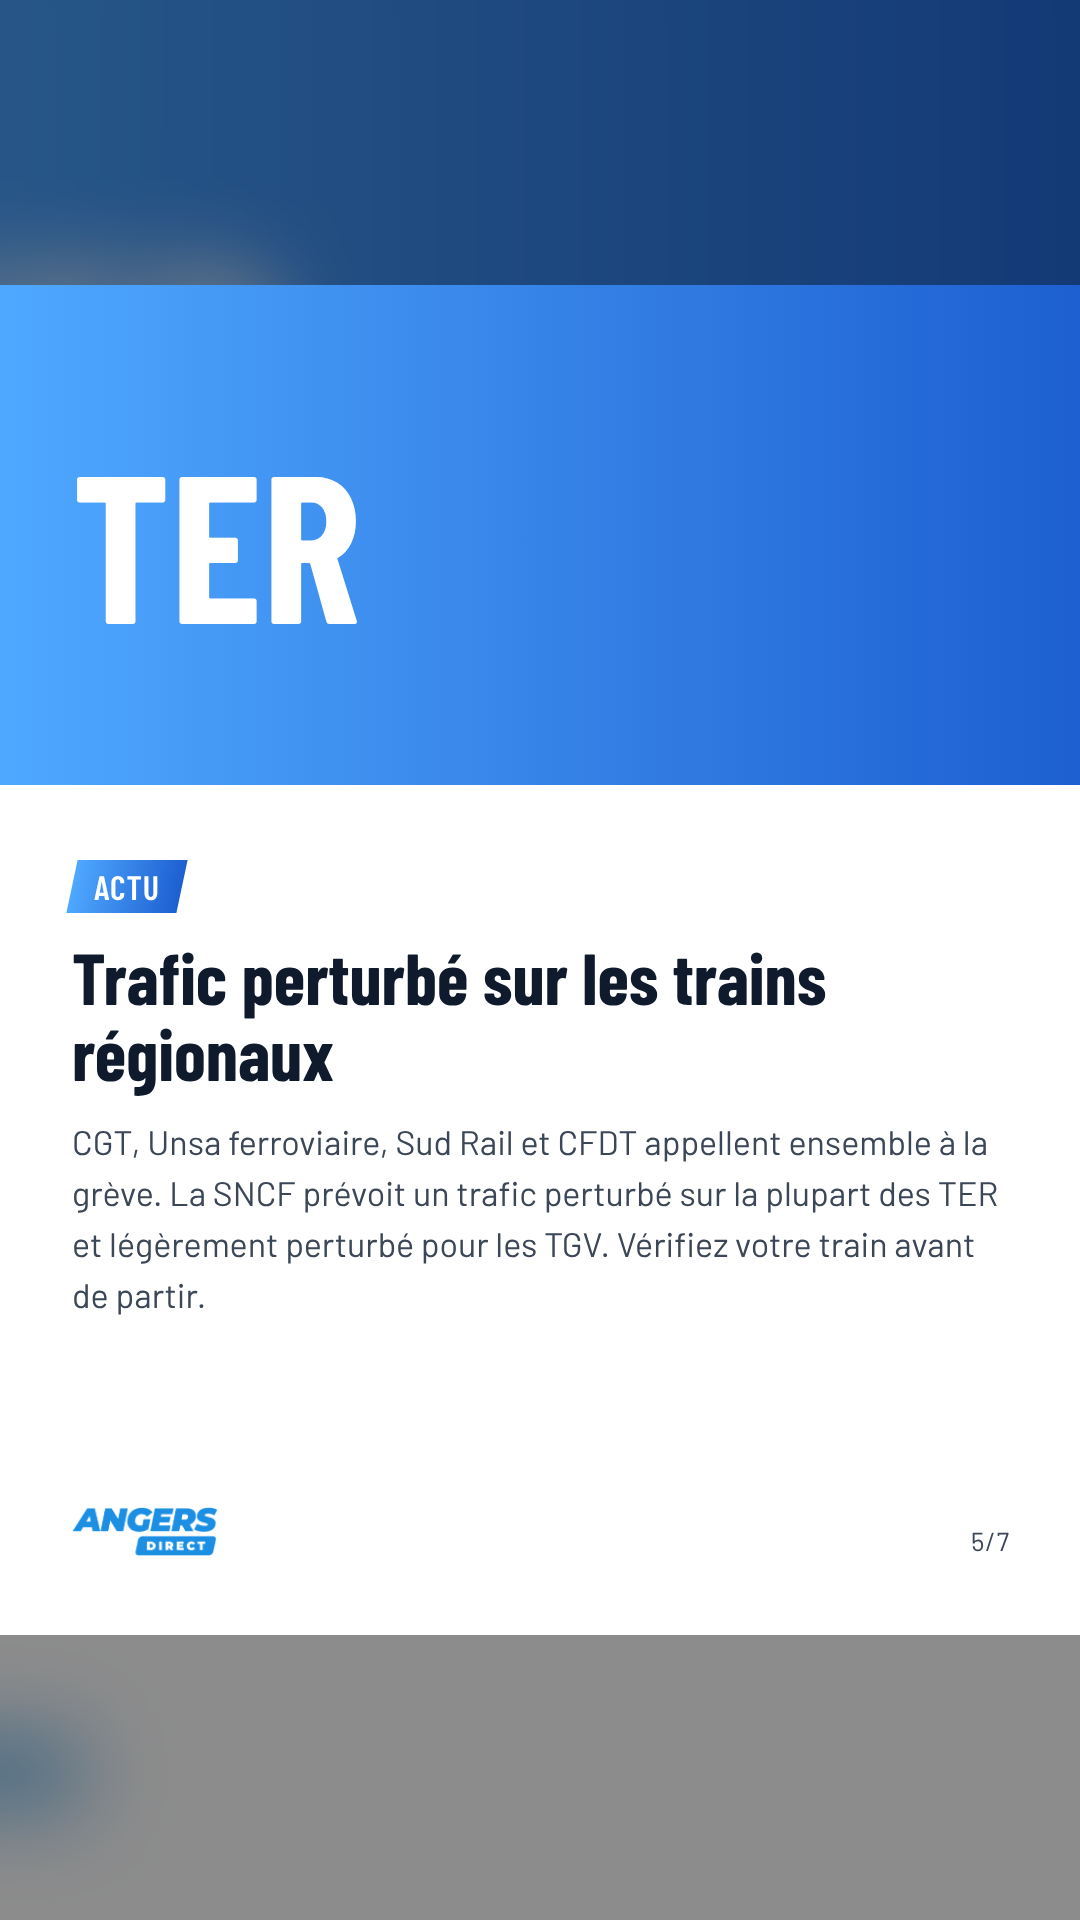
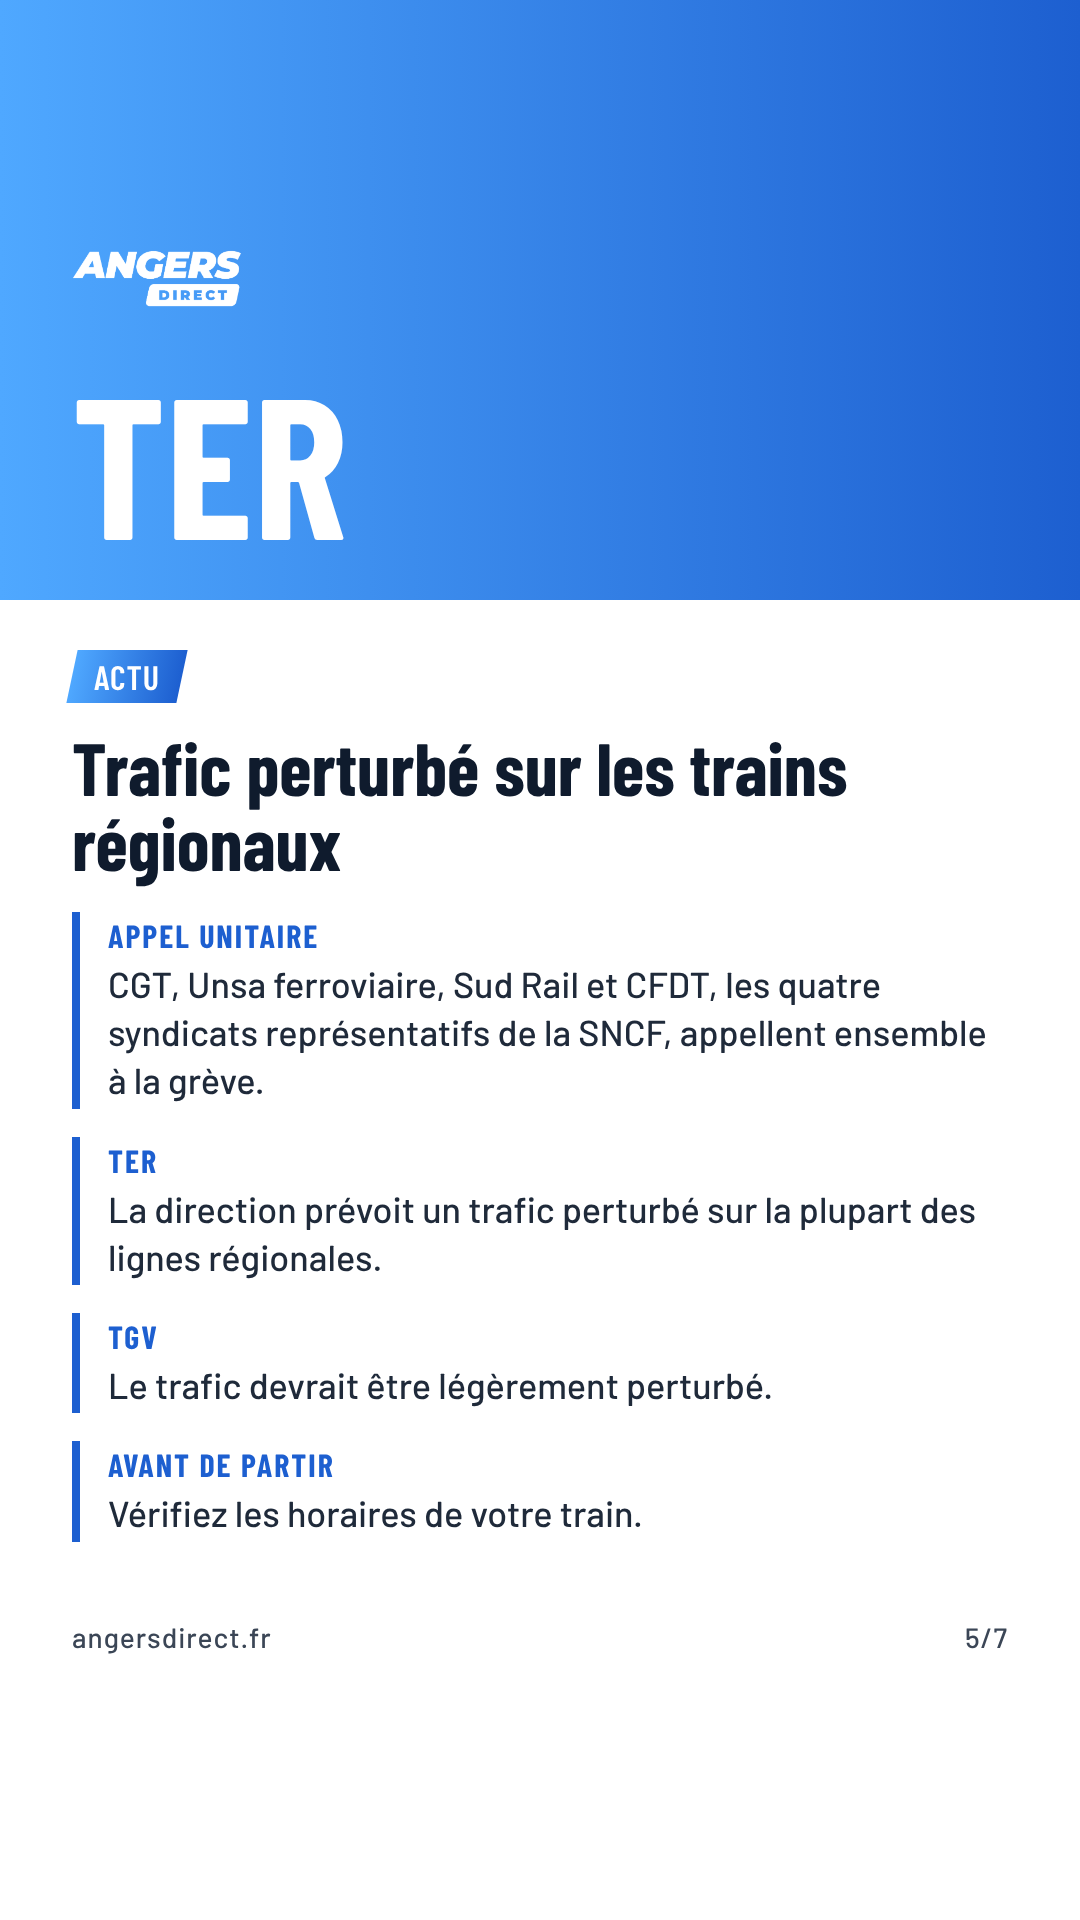
Stories grève : versions natives 1080x1920 (couverture points clés, fiches story) + outil story_fiche.py
Claude-Session: https://claude.ai/code/session_01ShcrTvhLx9WV1AdweTdrPm

diff --git a/outils/story_fiche.py b/outils/story_fiche.py
@@ -1,0 +1,53 @@
+"""Story Angers Direct 1080x1920 native, version story de la carte « fiche » (sans photo) : gros chiffre sur bande
+de couleur, rubrique, titre et 2 à 4 paragraphes courts avec filet de couleur.
+
+Usage : python3 outils/story_fiche.py fiche.json sortie.png
+Fiche : {"rubrique": "ACTU", "chiffre": "17,54 %", "titre": "...",
+         "paragraphes": [{"label": "COLLÈGES ET LYCÉES", "texte": "..."}, ...] (label facultatif), "page": "4/7"}
+Contenu utile entre 250 et 1670 px de haut (zones libres des interfaces Instagram et Facebook).
+"""
+import json, pathlib, sys
+from playwright.sync_api import sync_playwright
+from visuel import ACCENTS, COULEURS, polices, e, ICI
+
+
+def corps(f):
+    couleur = COULEURS.get(f['rubrique'].upper(), COULEURS['ACTU'])
+    paras = ''.join(
+        f'''<div style="border-left:8px solid #1D5FD0;padding:4px 0 4px 28px">
+{f'<div style="font-family:Barlow Condensed;font-weight:700;font-size:32px;letter-spacing:2px;color:#1D5FD0;margin-bottom:6px">{e(p["label"])}</div>' if p.get('label') else ''}
+<div style="font-weight:500;font-size:36px;line-height:1.34;color:#1F2A3A">{e(p['texte'])}</div></div>'''
+        for p in f['paragraphes'])
+    page = e(f.get('page', 'angersdirect.fr'))
+    return f'''<div style="width:1080px;height:1920px;position:relative;overflow:hidden;background:#FFFFFF;font-family:Barlow;color:#0F1B2D">
+<div style="position:absolute;left:0;top:0;width:1080px;height:600px;background:{couleur}"></div>
+<img src="file://{ICI}/assets/logo_blanc.png" style="position:absolute;left:72px;top:250px;width:170px">
+<div style="position:absolute;left:72px;right:72px;top:360px;font-family:'Barlow Condensed';font-weight:700;font-size:200px;line-height:1;color:#FFFFFF">{e(f['chiffre'])}</div>
+<div style="position:absolute;left:72px;right:72px;top:650px;display:flex;flex-direction:column;align-items:flex-start;gap:26px">
+<div style="padding:6px 22px;background:{couleur};transform:skewX(-12deg)"><div style="transform:skewX(12deg);font-family:'Barlow Condensed';font-weight:600;font-size:34px;letter-spacing:1px;color:#FFFFFF">{e(f['rubrique'].upper())}</div></div>
+<div style="font-family:'Barlow Condensed';font-weight:700;font-size:74px;line-height:1.02">{e(f['titre'])}</div>
+<div id="paras" style="display:flex;flex-direction:column;gap:28px;margin-top:6px">{paras}</div></div>
+<div style="position:absolute;left:72px;top:1620px;font-weight:500;font-size:28px;letter-spacing:1px;color:#3B4656">angersdirect.fr</div>
+<div style="position:absolute;right:72px;top:1620px;font-weight:500;font-size:28px;letter-spacing:1px;color:#3B4656">{page}</div></div>'''
+
+
+def main():
+    f = json.load(open(sys.argv[1]))
+    sortie = pathlib.Path(sys.argv[2]).resolve()
+    page = f"<!doctype html><html><head><meta charset='utf-8'><style>{polices()}body{{margin:0}}</style></head><body>{corps(f)}</body></html>"
+    tmp = sortie.with_suffix('.html')
+    tmp.write_text(page)
+    with sync_playwright() as p:
+        b = p.chromium.launch()
+        pg = b.new_page(viewport={'width': 1080, 'height': 1920})
+        pg.goto(f'file://{tmp}')
+        pg.wait_for_timeout(300)
+        bas = pg.evaluate("document.getElementById('paras').getBoundingClientRect().bottom")
+        pg.screenshot(path=str(sortie))
+        b.close()
+    tmp.unlink()
+    print('ok', sortie, f'bas du texte {bas:.0f} / 1590' + ('  DÉBORDE' if bas > 1590 else ''))
+
+
+if __name__ == '__main__':
+    main()
